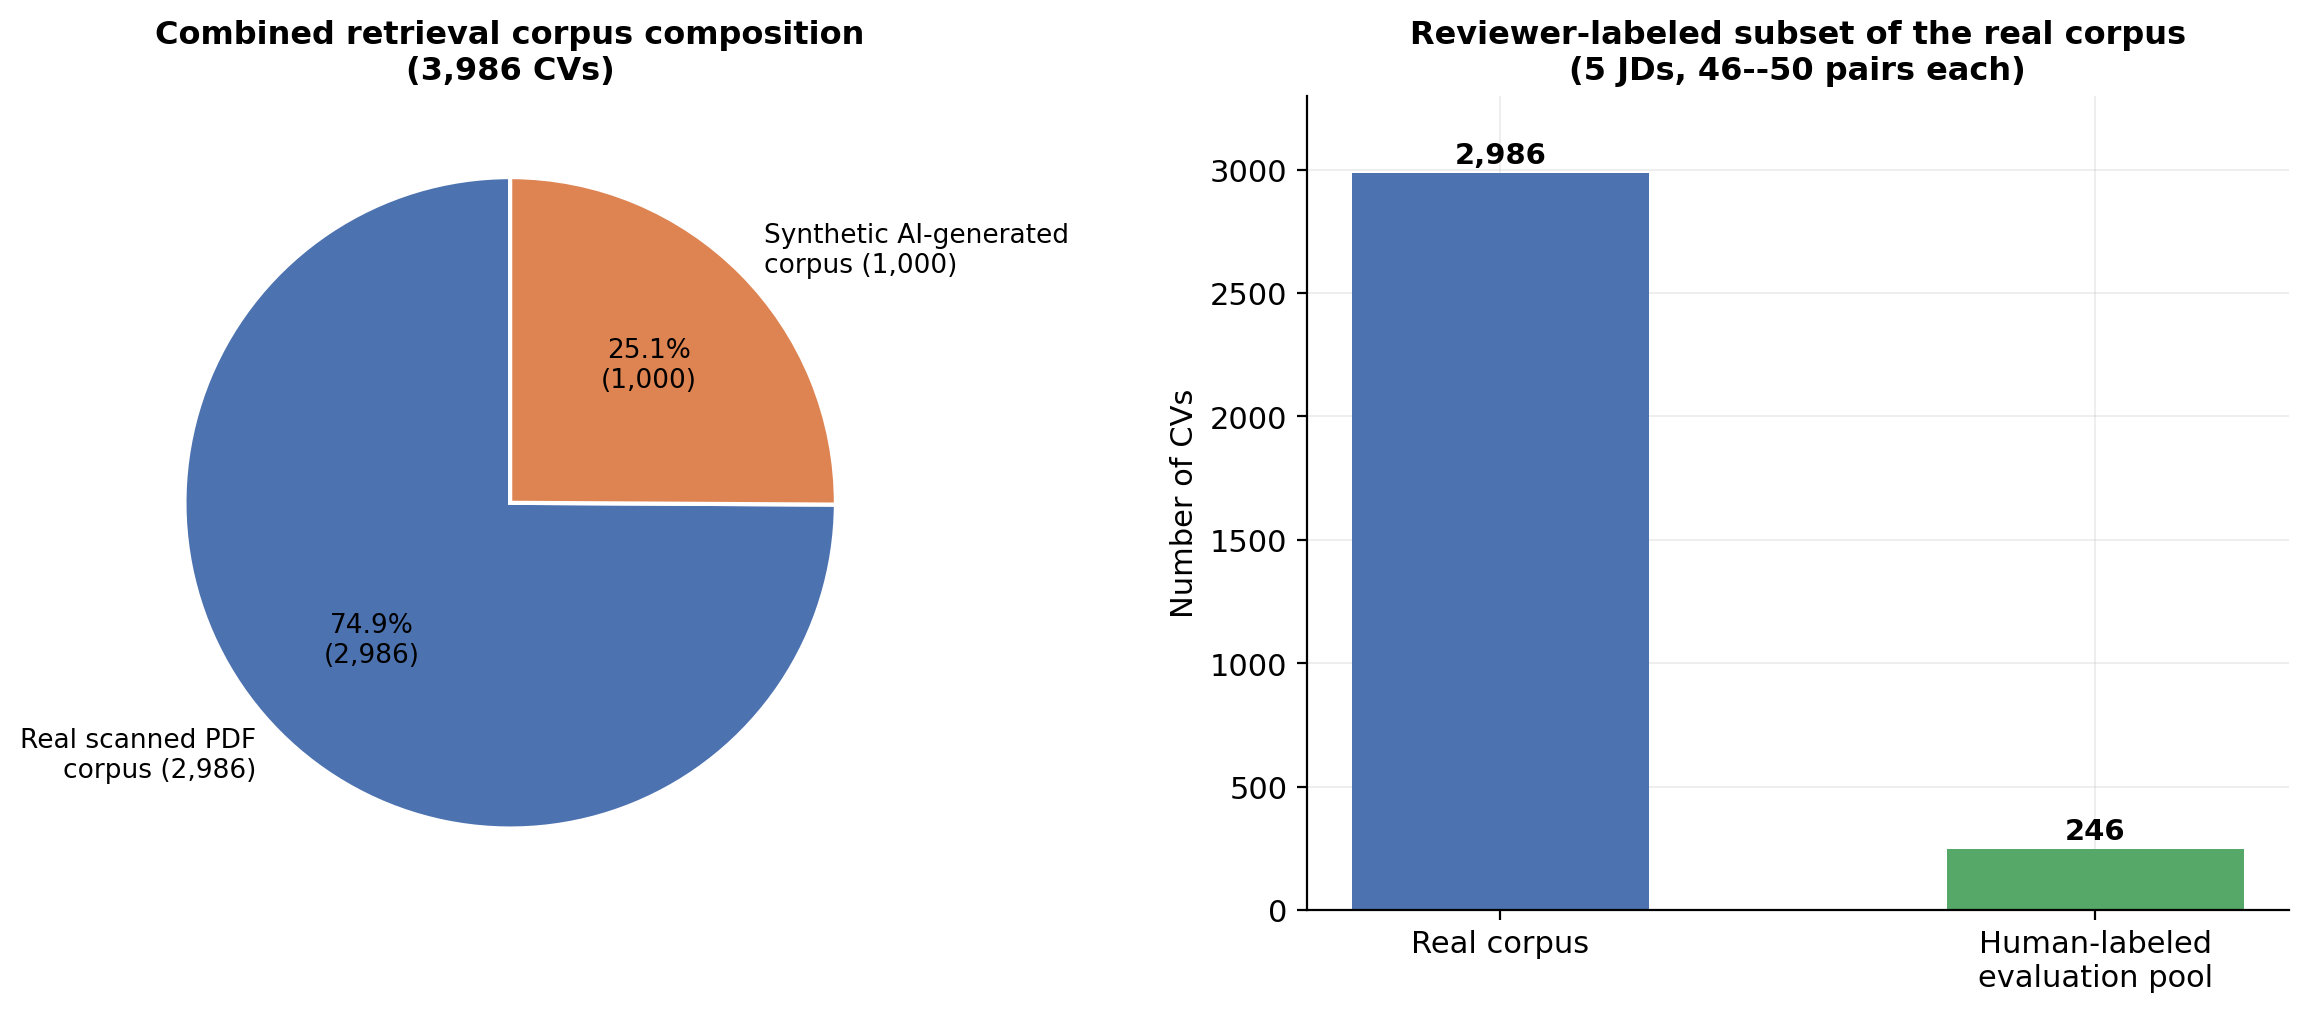
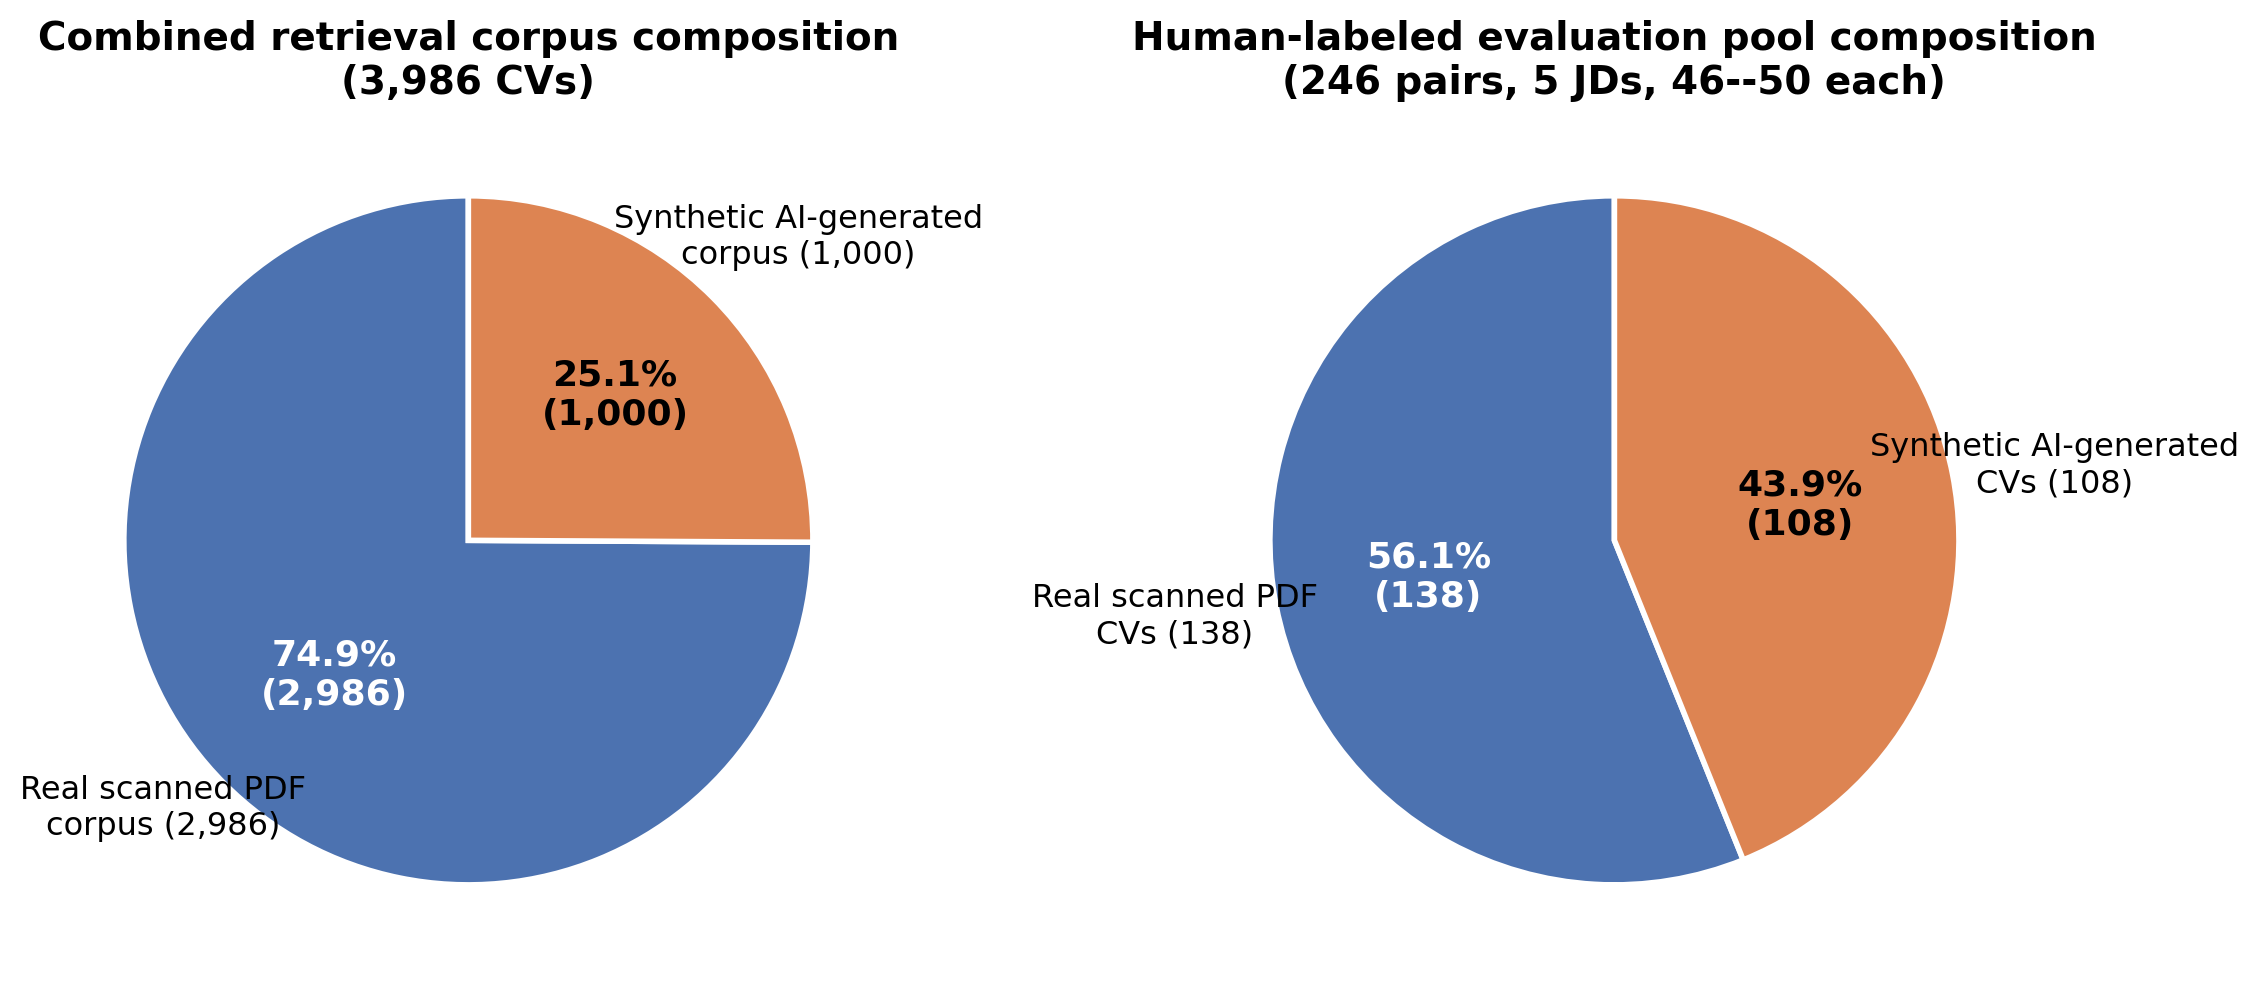
Fix false claim that the human-labeled pool is real-CVs-only
User caught that my earlier fix (commit a6a6716) trusted Table
dataset-composition's "All real CVs" label for the human-labeled
evaluation pool without verifying against the database. Direct query
of ReviewerLabel joined to CV.source_type shows the real 246-pair
pool is 138 real (56.1%) + 108 synthetic (43.9%) CVs across the 5
EVAL_JD JDs -- not real-only.

- Table dataset-composition and the dataset-composition figure
  (figure_4_6, regenerated) corrected to show the true split.
- "Human-labeled Evaluation Pool" subsection corrected back (my
  previous edit had wrongly claimed synthetic CVs were excluded).
- Abstract's "real corpus ... whereas synthetic corpus" framing
  softened; it implied an exclusive split that doesn't hold.
- Two further "reported separately for real and synthetic subsets"
  claims (Combined Retrieval Corpus subsection, External Validity)
  were also false -- Table ranking-results reports one combined
  macro-average over the mixed pool, with no real/synthetic
  breakdown ever computed. Corrected to state this honestly and
  added a corresponding Limitations bullet, rather than silently
  leaving an unfulfilled promise in the text.

diff --git a/thesis report/main.tex b/thesis report/main.tex
@@ -149,7 +149,7 @@ Recruitment screening is a high-volume information filtering problem in which re
 
 This thesis proposes an AI-driven recruitment screening system that formulates English IT CV--JD matching as a ranking problem and introduces a \emph{requirement-aware and evidence-aware matching mechanism with constraint-based reranking}. The system ingests PDF CVs, applies direct text extraction, and falls back to optical character recognition (OCR) for scanned documents. It then parses CV and job description (JD) content into structured sections, decomposes each JD into mandatory and optional requirements, retrieves supporting evidence from Work Experience and Projects, classifies each requirement as satisfied, partially satisfied, unsupported, or not satisfied, and validates hard constraints such as minimum years of experience and seniority level.
 
-The experimental design combines 2,986 real scanned PDF CVs -- filtered to IT/software roles from the public Kaggle \emph{Resume Dataset PDF} \citep{hadikpresumepdf}, a general, multi-industry resume collection -- with 1,000 controlled AI-generated English IT CVs. The real corpus is used for OCR, parsing, and practical ranking evaluation, whereas the synthetic corpus supports controlled seniority-mismatch, unsupported-claim, keyword-stuffing, and scalability experiments. Synthetic data is not used as the sole evidence of matching effectiveness; the primary ranking conclusions are based on a manually judged pool of 246 CV--JD pairs across five representative Senior/Junior IT job descriptions.
+The experimental design combines 2,986 real scanned PDF CVs -- filtered to IT/software roles from the public Kaggle \emph{Resume Dataset PDF} \citep{hadikpresumepdf}, a general, multi-industry resume collection -- with 1,000 controlled AI-generated English IT CVs. The real corpus is used for OCR and parsing evaluation and is the majority (but not exclusive) source for the human-labeled ranking pool, while the synthetic corpus additionally supports controlled seniority-mismatch, unsupported-claim, keyword-stuffing, and scalability experiments. The primary ranking conclusions are based on a manually judged pool of 246 CV--JD pairs (138 real, 108 synthetic) across five representative Senior/Junior IT job descriptions.
 
 The proposed approach is compared with TF--IDF, SBERT full-document similarity, and section-level SBERT baselines. Evaluation uses NDCG@5, NDCG@10, MAP, MRR, Recall@10, Recall@20, hard-constraint gating behavior, keyword-stuffing rank change, OCR reliability, and operational latency, together with bootstrap confidence intervals and a paired significance test. Against the human-labeled pool, the three similarity-only baselines rank ahead of the proposed requirement-aware, evidence-aware model on every ranking metric except MRR; this thesis reports that result directly rather than only the cases where the proposed mechanism wins, and traces it to two causes -- an auto-parsed hard-requirement list that no candidate in the top-10 ever fully satisfies (a 100\% constraint-violation rate at $k{=}10$), and evidence-similarity thresholds that a proper held-out calibration shows were left too lenient by default (calibrating them yields a genuine, held-out-validated $\sim$52\% relative improvement in NDCG@10, but closes less than a quarter of the absolute gap to the strongest baseline). A battery of controlled robustness tests, each category built as three constructed instances rather than one, shows the mechanism reliably does what it was designed to do for seniority mismatch, missing mandatory requirements, and keyword stuffing, but is fooled by descriptor-language role confusion in the majority of tested instances -- a genuine weakness the single-instance version of the same test did not reveal. The intended outcome is a practical and auditable decision-support prototype that makes requirement coverage and evidence explicit to a reviewer, improving initial CV screening while keeping final hiring decisions under human control; redesigning the JD parser's hard/optional classification and scoping declared-skill extraction to genuine personal-skill statements are identified as the two most concrete next steps rather than resolved contributions of this thesis.
 
@@ -834,16 +834,16 @@ The real corpus is used for:
 \end{itemize}
 
 \subsection{Controlled Synthetic CV Corpus}
-Approximately 1,000 AI-generated English IT CVs are used to expand corpus size and create controlled combinations of role, seniority, years, responsibilities, evidenced skills, unsupported claims, and irrelevant skills. Synthetic CVs are used for robustness and scalability analysis, not as the sole evidence of practical matching effectiveness.
+Approximately 1,000 AI-generated English IT CVs are used to expand corpus size and create controlled combinations of role, seniority, years, responsibilities, evidenced skills, unsupported claims, and irrelevant skills. Synthetic CVs are used for the dedicated controlled robustness and scalability sets, but are not confined to them: 108 of the 246 candidates in the primary human-labeled effectiveness pool are also synthetic (\cref{sec:labeled-pool}), so synthetic data contributes directly to Table~\ref{tab:ranking-results} as well, not only to the separate robustness tables. It is nonetheless not the sole evidence of practical matching effectiveness, since real CVs remain the majority (56.1\%) of that same labeled pool.
 
 Each synthetic record includes a manifest containing role, seniority, years of experience, declared skills, evidence-supported skills, unsupported skills, responsibility profile, scenario type, generation prompt version, and quality-control status. The final model name, prompt template, role distribution, seniority distribution, and accepted/rejected counts remain \texttt{Pending external input}.
 
 \subsection{Combined Retrieval Corpus}
-The combined retrieval corpus contains all valid real CVs and accepted synthetic CVs -- currently 3,986 records (2,986 real, 1,000 synthetic). It is used to measure indexing time, ranking latency, and top-$k$ response time (Table~\ref{tab:performance-results}). Effectiveness results are still reported separately for real and synthetic subsets.
+The combined retrieval corpus contains all valid real CVs and accepted synthetic CVs -- currently 3,986 records (2,986 real, 1,000 synthetic). It is used to measure indexing time, ranking latency, and top-$k$ response time (Table~\ref{tab:performance-results}). The human-labeled effectiveness pool itself mixes both sources rather than separating them (\cref{sec:labeled-pool}: 138 real, 108 synthetic of the 246 labeled pairs), and Table~\ref{tab:ranking-results} reports one combined macro-average over that mixed pool; a metrics breakdown computed separately for the real-only and synthetic-only labeled subsets was not performed in this thesis and is noted as a gap in \cref{sec:limitations-list}.
 
 \subsection{Human-labeled Evaluation Pool}
 \label{sec:labeled-pool}
-The primary ranking evaluation uses a manually judged pool of CV--JD pairs. Labeling was completed for five representative IT JDs (EVAL\_JD\_01--05; Table~\ref{tab:dataset-fields}) against the real Kaggle CV corpus only -- no synthetic CVs were included in this pool, since synthetic cases are reserved for the controlled robustness sets (\cref{sec:robustness-sets}) rather than the primary effectiveness judgment. The final pool contains 246 unique labeled pairs (46--50 per JD), within the originally planned 150--250 range.
+The primary ranking evaluation uses a manually judged pool of CV--JD pairs. Labeling was completed for five representative IT JDs (EVAL\_JD\_01--05; Table~\ref{tab:dataset-fields}), drawing candidates from both the real Kaggle corpus and the synthetic corpus rather than the real corpus alone: the final 246-pair pool is 138 real (56.1\%) and 108 synthetic (43.9\%) CVs, with the real corpus the majority but not the exclusive source. This is within the originally planned 150--250-pair range, though the real/synthetic split within it was not itself a pre-registered target.
 
 Candidate pooling combined the top results from TF--IDF, SBERT full text, section-level SBERT, requirement-aware matching, the full proposed model, and a supplementary random sample of additional CVs per JD, to reduce bias toward any single model's top-$k$. Duplicate candidates were removed before judgment. No random seed was recorded for the one-time supplementary random-sampling step, so that specific step cannot be regenerated exactly; the resulting 246 labeled pairs are, however, stored and are what all six methods in Table~\ref{tab:ranking-results} are scored against, so the labeled ground truth itself is fully reproducible even though the original pooling draw is not (see Limitations, Chapter 5).
 
@@ -869,7 +869,7 @@ Subset & Source & Final size & Primary purpose \\
 Real scanned PDF corpus & Kaggle & 2,986 indexed (100\% OCR-extracted; raw pre-filter count \texttt{Pending}) & OCR, parsing, real-data ranking, and error analysis \\
 Synthetic CV corpus & AI-generated & 1,000 & Controlled robustness and scalability \\
 Combined retrieval corpus & Mixed & 3,986 & Indexing and ranking latency \\
-Human-labeled evaluation pool & All real CVs (single reviewer) & 246 labeled pairs across the 5 EVAL\_JD JDs (46--50 each; target 150--250 met) & NDCG, MAP, MRR, Recall (Table~\ref{tab:ranking-results}) \\
+Human-labeled evaluation pool & Real + synthetic CVs, single reviewer (138 real, 108 synthetic) & 246 labeled pairs across the 5 EVAL\_JD JDs (46--50 each; target 150--250 met) & NDCG, MAP, MRR, Recall (Table~\ref{tab:ranking-results}) \\
 Seniority robustness set & Purpose-built synthetic pairs & 3 pairs, 3 JDs (Java, React, data engineer) & Hard-constraint violation analysis (Tables~\ref{tab:robustness-results}, \ref{tab:battery-summary}); all 5 declared categories built, \cref{sec:robustness-sets} \\
 Keyword-stuffing set & Controlled paired variants & 3 triples, 3 JDs (EVAL\_JD\_01, Vue, data engineer) & Unsupported-claim and rank-change analysis (Tables~\ref{tab:robustness-results}, \ref{tab:battery-summary}) \\
 Missing-mandatory-requirement set & Purpose-built synthetic pairs & 3 pairs, 3 JDs (Python, DevOps, QA) & Broad-similarity-vs-hard-gate analysis (Tables~\ref{tab:missing-mandatory-case}, \ref{tab:battery-summary}) \\
@@ -883,7 +883,7 @@ Summing every row above (2,986 real $+$ 1,000 synthetic $+$ 27 robustness-batter
 \begin{figure}[htbp]
 \centering
 \includegraphics[width=0.98\textwidth]{figures/figure_4_6_dataset_composition.png}
-\caption[Dataset composition breakdown]{Dataset composition. Left: the 3,986-CV combined retrieval corpus is 74.9\% real scanned PDFs and 25.1\% synthetic AI-generated CVs. Right: the 246-pair human-labeled evaluation pool is a small subset (8.2\%) of the 2,986-CV real corpus, drawn from 5 evaluation JDs at 46--50 labeled candidates each.}
+\caption[Dataset composition breakdown]{Dataset composition. Left: the 3,986-CV combined retrieval corpus is 74.9\% real scanned PDFs and 25.1\% synthetic AI-generated CVs. Right: the 246-pair human-labeled evaluation pool itself is a mix of both sources -- 56.1\% (138) real scanned PDF CVs and 43.9\% (108) synthetic AI-generated CVs -- drawn from 5 evaluation JDs at 46--50 labeled candidates each; it is not an all-real subset.}
 \label{fig:dataset-chart}
 \end{figure}
 
@@ -1466,7 +1466,7 @@ Errors in PDF extraction, OCR, requirement parsing, date extraction, sentence se
 Relevance labels are subjective and may vary by reviewer. The fixed rubric and reviewer comments reduce ambiguity, but the 246 labels reported in Table~\ref{tab:ranking-results} were all produced by a single reviewer, so weighted Cohen's kappa (\citep{cohen1968}, reported only when a second reviewer is available) could not be computed for this run; single-reviewer judgment is treated as a limitation of the current results rather than a resolved validity threat. Internal requirement states are not treated as ground-truth relevance labels. Explanation usefulness is measured separately from ranking effectiveness.
 
 \subsection{External Validity}
-The evaluation focuses on English IT recruitment. Public Kaggle CVs may not represent company-specific documents, and AI-generated CVs may contain cleaner language or generator-specific patterns. Synthetic results are therefore reported separately and are not used to claim production readiness.
+The evaluation focuses on English IT recruitment. Public Kaggle CVs may not represent company-specific documents, and AI-generated CVs may contain cleaner language or generator-specific patterns. The controlled robustness and scalability tests use dedicated, purpose-built synthetic CVs and are reported separately from the main effectiveness result (Tables~\ref{tab:robustness-results}, \ref{tab:battery-summary}); however, the general 1,000-CV synthetic corpus is not fully separated from the main effectiveness result, since 108 of the 246 human-labeled pairs (43.9\%) are synthetic CVs drawn into the same pool as the real ones and scored in the same combined macro-average (\cref{sec:labeled-pool}, Table~\ref{tab:ranking-results}) -- a mixing this thesis does not disentangle and that is noted as a limitation.
 
 \subsection{Conclusion Validity}
 A limited number of JDs (5) and judged pairs (246) may produce unstable metric differences. This is partially mitigated by reporting the per-JD breakdown alongside the macro-average (Table~\ref{tab:per-jd-ndcg10}), which shows the main finding -- similarity-only baselines outperforming the requirement-decomposition family -- holds on every individual JD rather than only on average. Bootstrap confidence intervals and a paired significance test were computed (Tables~\ref{tab:bootstrap-ci}--\ref{tab:paired-significance}): the paired bootstrap CI on the difference against M6 excludes zero for all three similarity-only baselines, corroborating that the gap is not an artifact of resampling noise, but the traditional Wilcoxon signed-rank test cannot reach $p<0.05$ for any comparison purely because $n=5$ JDs is too few observations for that test's discrete p-value distribution to go below $0.0625$ -- a genuine statistical-power limitation of the 5-JD design, reported explicitly rather than worked around by, for example, incorrectly treating the 246 individual pairs as independent replicates. Threshold sensitivity analysis was also run as a full calibration on a held-out development/test split of the labeled pairs (Table~\ref{tab:threshold-calibration}), not only the earlier 4-point probe (\cref{sec:discussion}). Negative or inconclusive outcomes are reported rather than hidden.
@@ -1507,6 +1507,7 @@ The main limitations are:
 \begin{itemize}
   \item public Kaggle data may not fully represent organizational recruitment;
   \item AI-generated CVs may contain stylistic artifacts, overly clean language, or prompt-specific patterns;
+  \item the 246-pair human-labeled effectiveness pool mixes real (138) and synthetic (108) CVs (\cref{sec:labeled-pool}) and Table~\ref{tab:ranking-results} reports one combined macro-average over both; the ranking-effectiveness metrics were not additionally broken down into real-only and synthetic-only subsets, so any difference in how the six models treat synthetic versus real candidates specifically cannot currently be read from the headline result;
   \item synthetic metadata does not replace human relevance judgment;
   \item rule-based JD and CV parsing may fail on unusual formats or implicit requirements;
   \item experience-year extraction may be inaccurate when dates are incomplete or overlapping; the current build still defaults the numeric value to 0.0 when no year phrase or date range is found, but now records a separate \texttt{years\_detected} flag and surfaces "not detected" (rather than "0.0 years detected") in both the CV table and the requirement explanation, so a genuine 0-years fresher can be told apart from a failed extraction during manual inspection;
